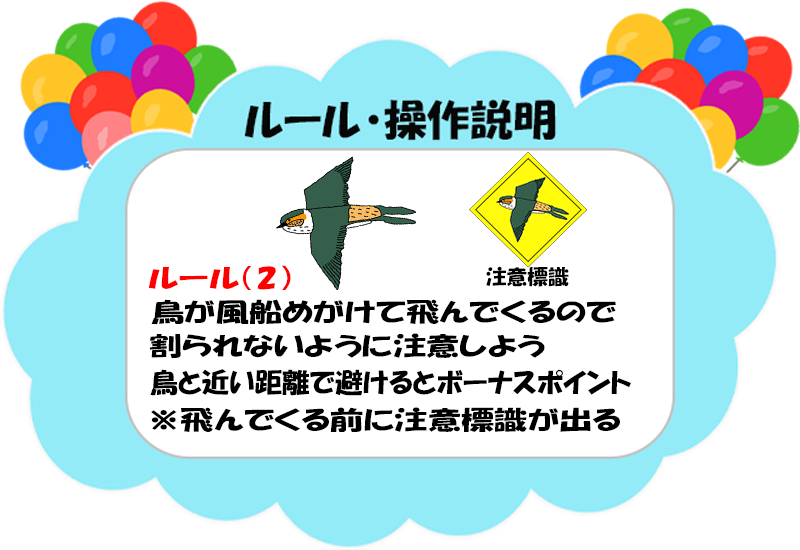
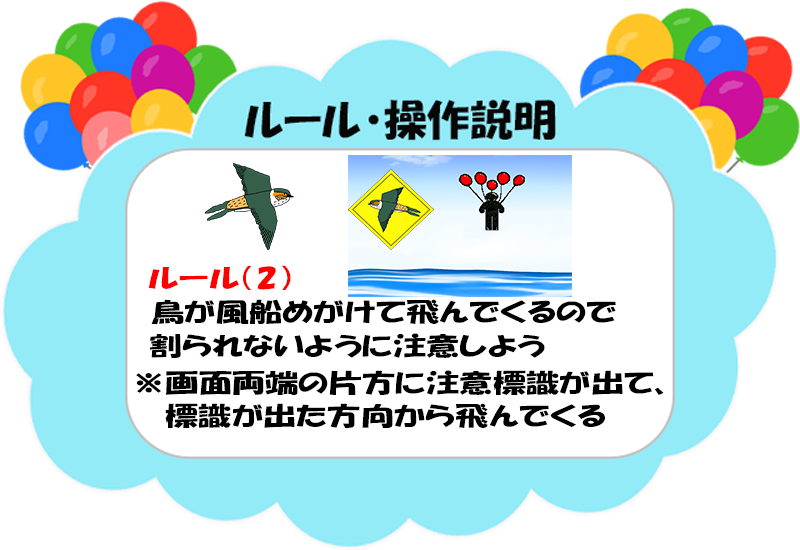
更新
左クリックで早く移動できるようになった(最大で５回)

Changed region(s): [[0.25, 0.2782, 0.75, 0.5564], [0.1562, 0.6491, 0.8125, 0.8036]]

diff --git a/project/gp1.imgui/SourceCode/ring.cpp b/project/gp1.imgui/SourceCode/ring.cpp
@@ -36,6 +36,7 @@ Sprite* sprRing_rainbow;
 const float MAX_Z = 0.0f; // Zの最大値
 const float MIN_Z = -200.0f; // Zの最小値
 
+int ring_generate_count;  // 生成されたリングの数を追跡
 
 
 
@@ -52,6 +53,7 @@ void ring_init() {
     gold_ring_count = 0;
     red_ring_count = 0;
     rainbow_ring_count = 0;
+    ring_generate_count = 0;
 }
 
 
@@ -129,8 +131,7 @@ void spawn_ring(float x = 0.0f, float y = 0.0f)
 }
 
 
-// 新しく追加するフラグ
-static int ring_generate_count = 0;  // 生成されたリングの数を追跡
+
 
 void spawn_ring_randomly(float x, float y) {
     spawn_ring(x, y);  // 位置を指定してリングを生成
@@ -189,6 +190,7 @@ void sort_rings_by_z() {
     std::sort(goldRings, goldRings + gold_count, compareRingsByZ);
     std::sort(redRings, redRings + red_count, compareRingsByZ);
     std::sort(rainbowRings, rainbowRings + rainbow_count, compareRingsByZ);
+    
 }
 void ring_update() {
     game_timer += 0.0166f;
@@ -252,14 +254,7 @@ void ring_render() {
             goldRings[i].color.x, goldRings[i].color.y, goldRings[i].color.z, goldRings[i].color.w
         );
 
-        //// スケールに応じた当たり判定の円を描画
-        //primitive::circle(
-        //    goldRings[i].position.x + goldRings[i].offset.x,
-        //    goldRings[i].position.y + goldRings[i].offset.y,
-        //    goldRings[i].radius * goldRings[i].scale.x, // スケールに応じて拡大した半径
-        //    1, 1, ToRadian(0),
-        //    1, 0, 0, 0.5f
-        //);
+        
     }
 
     for (int i = 0; i < red_count; i++) {
@@ -275,14 +270,7 @@ void ring_render() {
             redRings[i].color.x, redRings[i].color.y, redRings[i].color.z, redRings[i].color.w
         );
 
-        //// スケールに応じた当たり判定の円を描画
-        //primitive::circle(
-        //    redRings[i].position.x + redRings[i].offset.x,
-        //    redRings[i].position.y + redRings[i].offset.y,
-        //    redRings[i].radius * redRings[i].scale.x, // スケールに応じて拡大した半径
-        //    1, 1, ToRadian(0),
-        //    1, 0, 0, 0.5f
-        //);
+        
     }
 
     for (int i = 0; i < rainbow_count; i++) {
@@ -298,14 +286,7 @@ void ring_render() {
             rainbowRings[i].color.x, rainbowRings[i].color.y, rainbowRings[i].color.z, rainbowRings[i].color.w
         );
 
-        //// スケールに応じた当たり判定の円を描画
-        //primitive::circle(
-        //    rainbowRings[i].position.x + rainbowRings[i].offset.x,
-        //    rainbowRings[i].position.y + rainbowRings[i].offset.y,
-        //    rainbowRings[i].radius * rainbowRings[i].scale.x, // スケールに応じて拡大した半径
-        //    1, 1, ToRadian(0),
-        //    1, 0, 0, 0.5f
-        //);
+        
     }
     
     text_out(6, "SCORE:" + std::to_string(score), 10, 10, 2.0f, 2.0f, 0.0f, 0.0f, 0.0f, 1.0f, TEXT_ALIGN::UPPER_LEFT);
@@ -314,16 +295,19 @@ void ring_render() {
 
 }
 
-void judge() 
+void judge()
 {
-    for (int i = 0; i < gold_count; i++) 
+   
+
+    for (int i = 0; i < gold_count; i++)
     {
-        if (goldRings[i].position.z >= MAX_Z)//zの位置が最大値以上なら
+        if (goldRings[i].position.z >= MAX_Z) // zの位置が最大値以上なら
         {
-            if (hitCheckRing(&player, &goldRings[i])) //当たり判定の処理
+            if (hitCheckRing(&player, &goldRings[i])) // 当たり判定の処理
             {
-                score += 100;//スコアを増やす
-                    music::play(BGM_RING, false);
+                
+                score += 100;
+                music::play(BGM_RING, false);
                 for (int j = i; j < gold_count - 1; j++) {
                     goldRings[j] = goldRings[j + 1];
                 }
@@ -332,7 +316,6 @@ void judge()
                 gold_ring_count++;
             }
         }
-        
     }
 
     for (int i = 0; i < red_count; i++)
@@ -341,7 +324,8 @@ void judge()
         {
             if (hitCheckRing(&player, &redRings[i]))
             {
-                score += 500;
+            
+                score += 500 ; // スコアを加算
                 music::play(BGM_RING, false);
                 for (int j = i; j < red_count - 1; j++) {
                     redRings[j] = redRings[j + 1];
@@ -351,7 +335,6 @@ void judge()
                 red_ring_count++;
             }
         }
-
     }
 
     for (int i = 0; i < rainbow_count; i++)
@@ -360,7 +343,8 @@ void judge()
         {
             if (hitCheckRing(&player, &rainbowRings[i]))
             {
-                score += 1000;
+             
+                score += 1000 ; // スコアを加算
                 music::play(BGM_RING, false);
                 for (int j = i; j < rainbow_count - 1; j++) {
                     rainbowRings[j] = rainbowRings[j + 1];
@@ -370,9 +354,9 @@ void judge()
                 rainbow_ring_count++;
             }
         }
-
     }
 }
+
 
 
 

diff --git a/project/gp1.imgui/SourceCode/sign.cpp b/project/gp1.imgui/SourceCode/sign.cpp
@@ -33,7 +33,7 @@ void sign_init() {
     sign_on_right = true;
     sign_visible = true; 
      sign_spawn_timer = 0.0f; 
-     sign_spawn_interval = 10.0f; 
+     sign_spawn_interval = 15.0f; 
      min_spawn_interval = 1.0f; 
      interval_decrement = 0.1f; 
      sign_display_timer = 0.0f; 
@@ -67,11 +67,11 @@ void sign_update() {
             sign_on_right = rand() % 2; // 0または1をランダムで決定
 
             sign.position = {
-                sign_on_right ? SCREEN_W - SIGN_TEX_W * 0.2f : SIGN_TEX_W * 0.2f,
+                sign_on_right ? SCREEN_W - SIGN_TEX_W * 0.3f : SIGN_TEX_W * 0.3f,
                 SCREEN_H / 2.0f
             };
 
-            sign.scale = { 0.4f, 0.4f };
+            sign.scale = { 0.5f, 0.5f };
             sign.texPos = { 0, 0 };
             sign.texSize = { SIGN_TEX_W, SIGN_TEX_H };
             sign.pivot = { SIGN_PIVOT_X, SIGN_PIVOT_Y };
@@ -122,7 +122,7 @@ void sign_update() {
 
             if (bird_spawn_timer >= 1.0f) {
                 // 鳥を生成
-                spawn_birds(sign_on_right, 2 + rand() % 3); // 鳥を2～4羽ランダムで生成
+                spawn_birds(sign_on_right, 1 + rand() % 4); // 鳥を1～4羽ランダムで生成
                 bird_spawn_timer = 0.0f;
                 bird_ready = false;
 

diff --git a/project/gp1.imgui/SourceCode/ring.h b/project/gp1.imgui/SourceCode/ring.h
@@ -39,15 +39,9 @@ void ring_update();
 void ring_render();
 bool compareRingsByZ(const RING& a, const RING& b);
 
-void update_gold_rings();
-void update_red_rings();
-void update_rainbow_rings();
 
-void render_gold_rings();
-void render_red_rings();
-void render_rainbow_rings();
 
-void ring_act();
+
 
 
 

diff --git a/project/gp1.imgui/SourceCode/scene_game.h b/project/gp1.imgui/SourceCode/scene_game.h
@@ -11,6 +11,7 @@ public:
 	bool isFadeIn;
 	int wait_timer ;
 	int stay_timer;
+	int bird_timer;
 
 };
 
